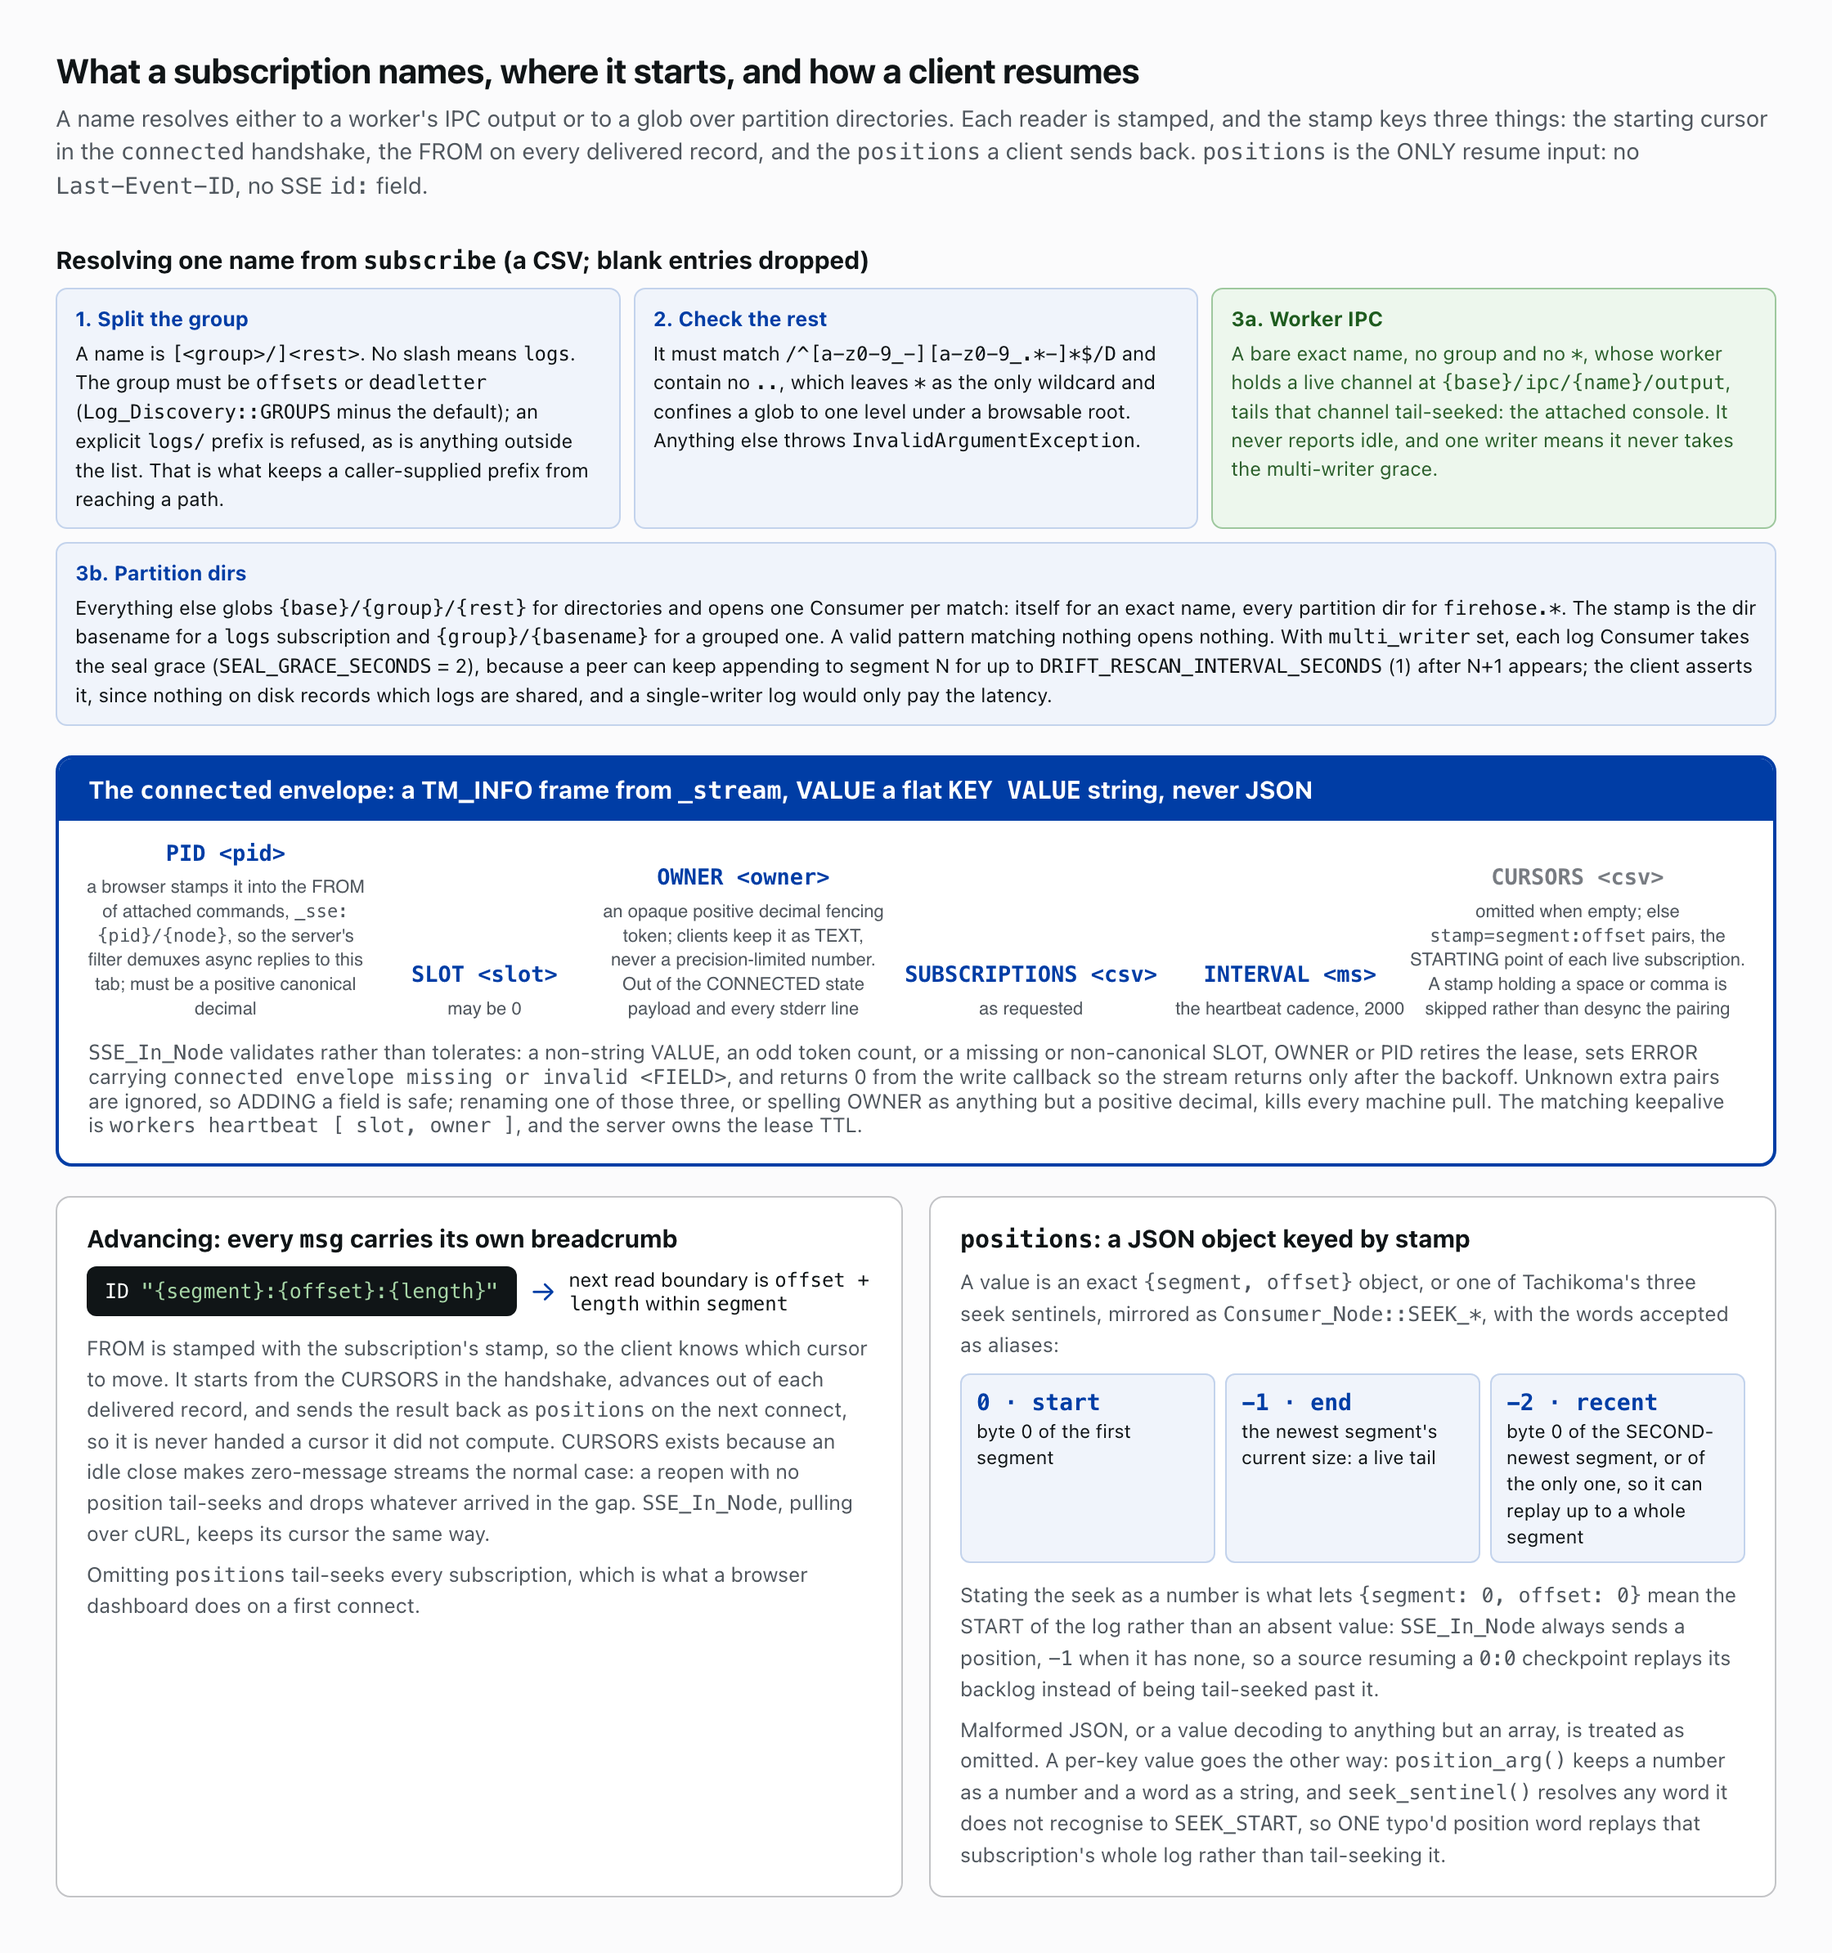
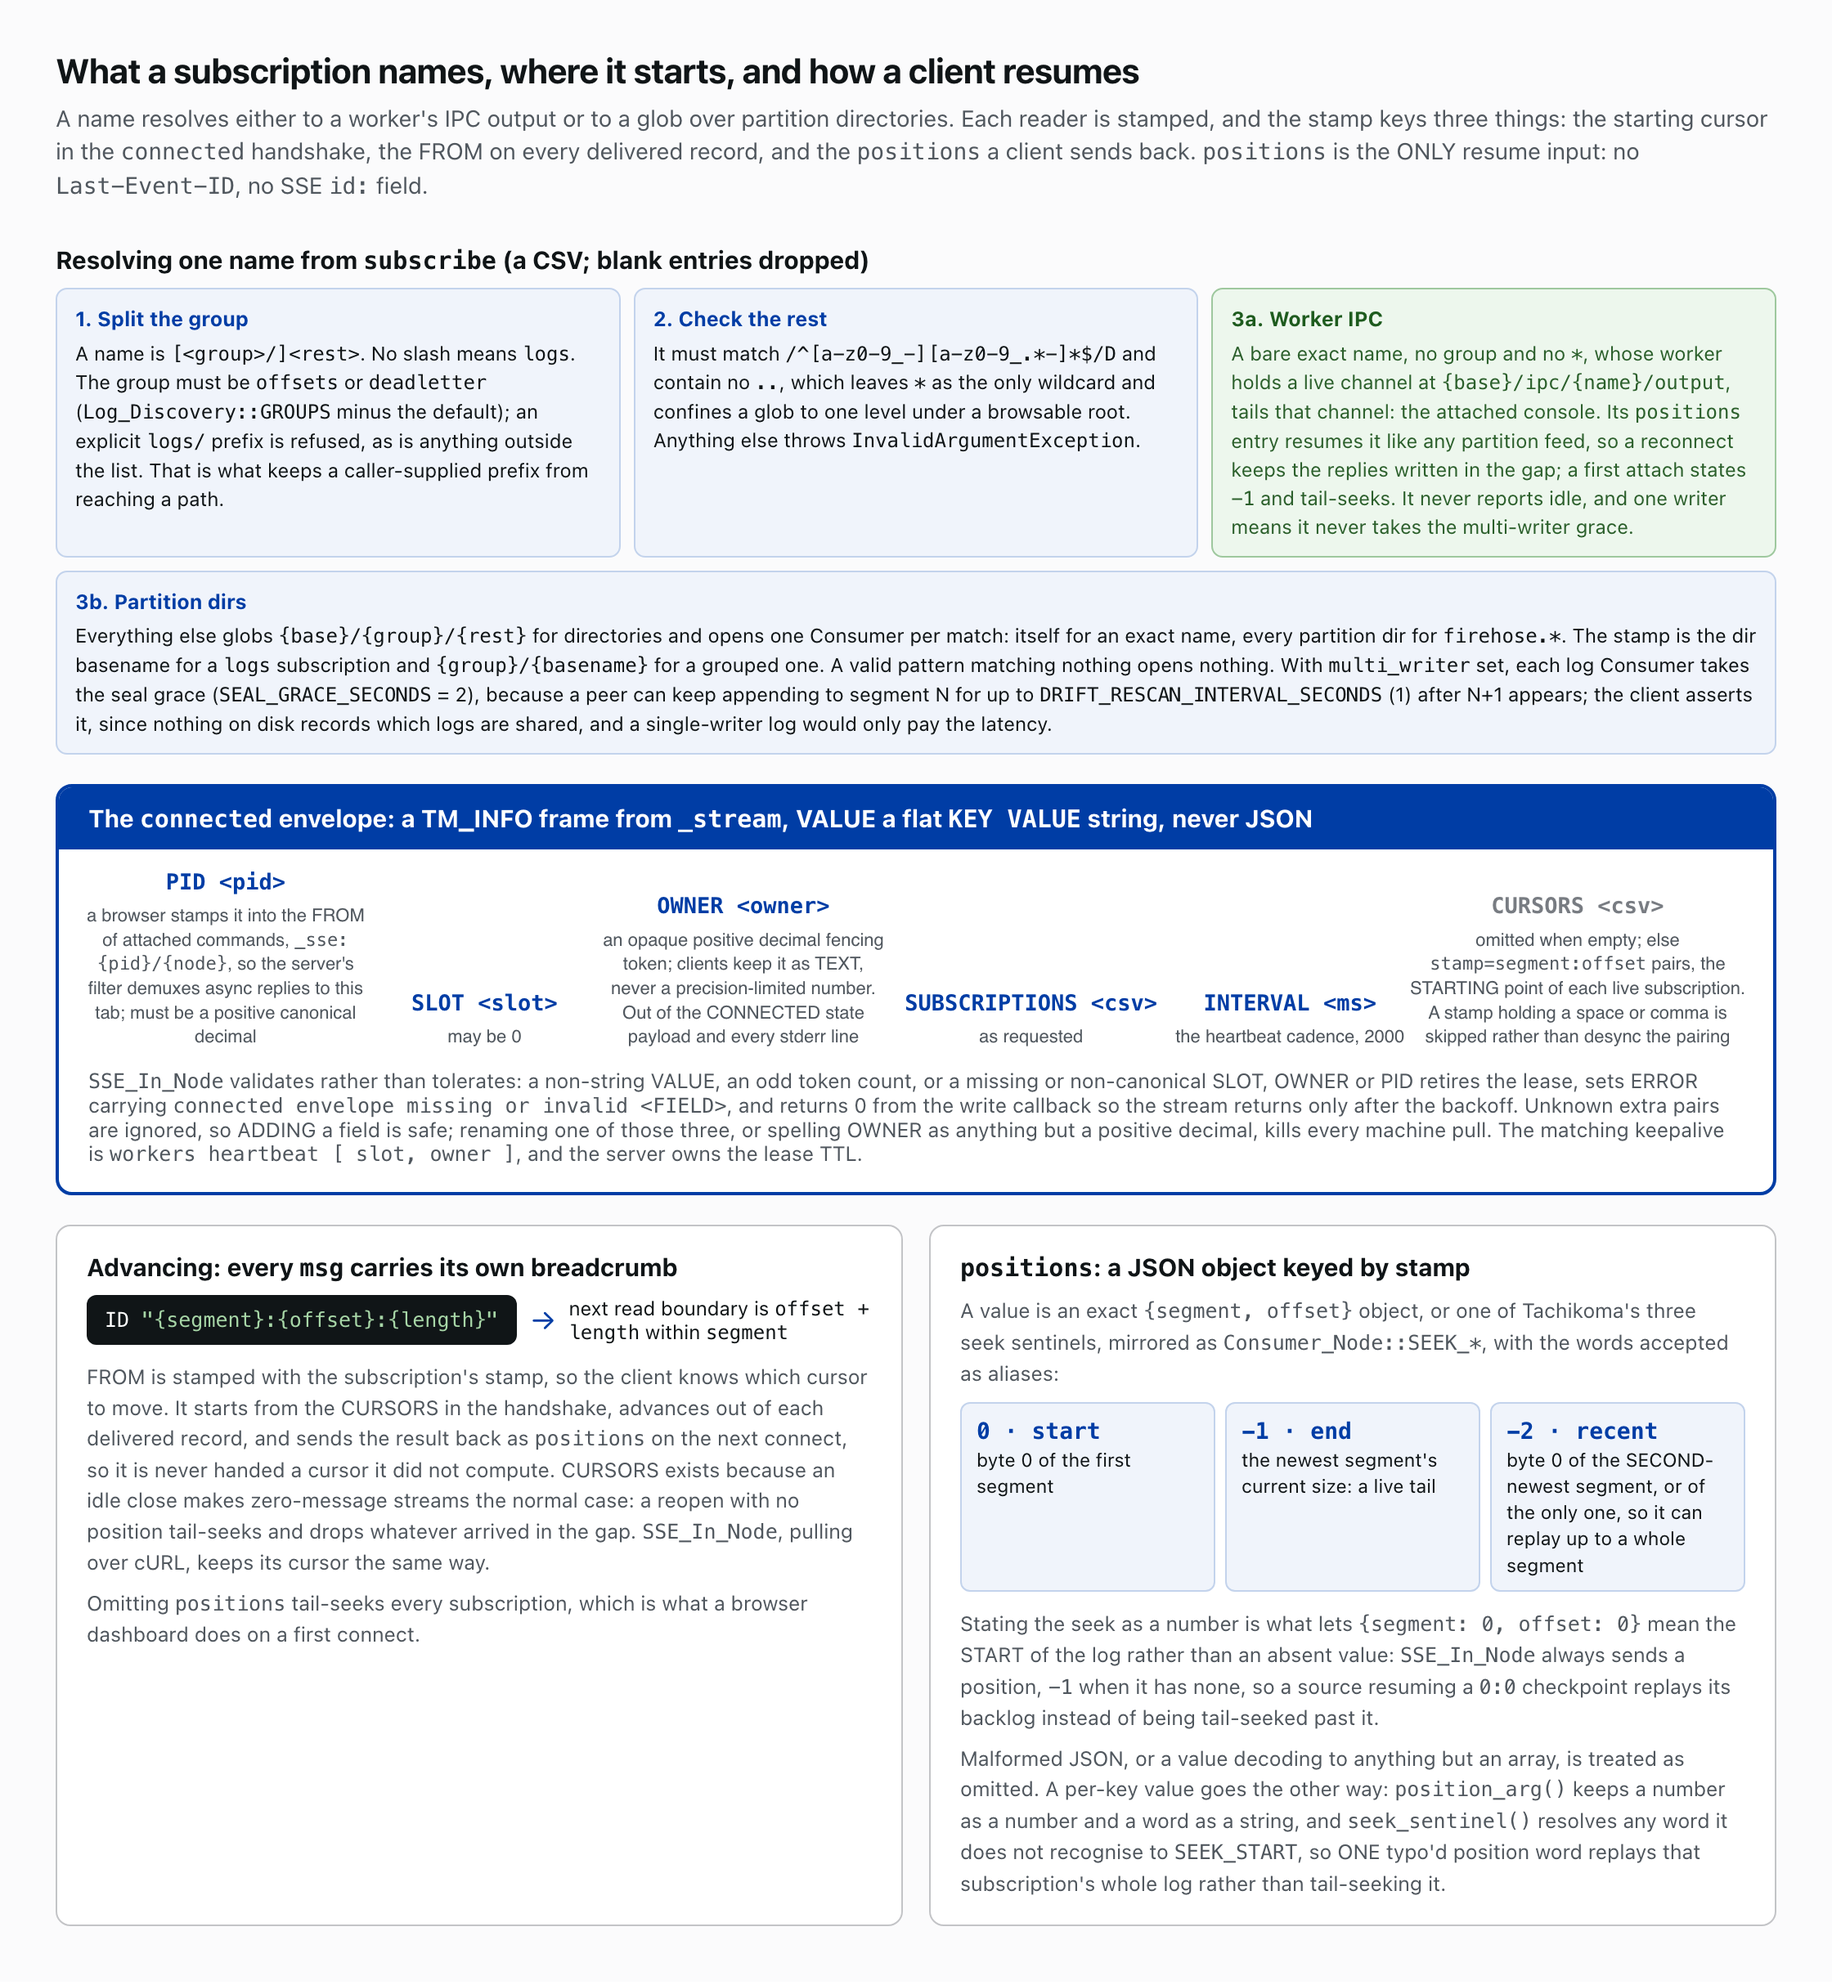
fix(sse): a worker attach resumes from the position its reconnect sends
open_subscription() tail-seeked every IPC attach, ignoring positions, so
the topology console lost whatever a worker wrote while its stream was
down, command replies included. The IPC branch now seeds its consumer from
positions[sub] through the same position_arg() the partition feed uses,
and a first attach, which sends no position, still tail-seeks.

diff --git a/docs/img/api-sse-subscribe-and-resume.html b/docs/img/api-sse-subscribe-and-resume.html
@@ -31,7 +31,7 @@ h2 { font-size:15px; margin:0 0 8px; }
 <div class="dec">
   <div class="q"><b>1. Split the group</b>A name is <span class="mono">[&lt;group&gt;/]&lt;rest&gt;</span>. No slash means <span class="mono">logs</span>. The group must be <span class="mono">offsets</span> or <span class="mono">deadletter</span> (<span class="mono">Log_Discovery::GROUPS</span> minus the default); an explicit <span class="mono">logs/</span> prefix is refused, as is anything outside the list. That is what keeps a caller-supplied prefix from reaching a path.</div>
   <div class="q"><b>2. Check the rest</b>It must match <span class="mono">/^[a-z0-9_-][a-z0-9_.*-]*$/D</span> and contain no <span class="mono">..</span>, which leaves <span class="mono">*</span> as the only wildcard and confines a glob to one level under a browsable root. Anything else throws <span class="mono">InvalidArgumentException</span>.</div>
-  <div class="q deny"><b>3a. Worker IPC</b>A bare exact name, no group and no <span class="mono">*</span>, whose worker holds a live channel at <span class="mono">{base}/ipc/{name}/output</span>, tails that channel tail-seeked: the attached console. It never reports idle, and one writer means it never takes the multi-writer grace.</div>
+  <div class="q deny"><b>3a. Worker IPC</b>A bare exact name, no group and no <span class="mono">*</span>, whose worker holds a live channel at <span class="mono">{base}/ipc/{name}/output</span>, tails that channel: the attached console. Its <span class="mono">positions</span> entry resumes it like any partition feed, so a reconnect keeps the replies written in the gap; a first attach states <span class="mono">-1</span> and tail-seeks. It never reports idle, and one writer means it never takes the multi-writer grace.</div>
   <div class="q" style="grid-column: 1 / span 3"><b>3b. Partition dirs</b>Everything else globs <span class="mono">{base}/{group}/{rest}</span> for directories and opens one Consumer per match: itself for an exact name, every partition dir for <span class="mono">firehose.*</span>. The stamp is the dir basename for a <span class="mono">logs</span> subscription and <span class="mono">{group}/{basename}</span> for a grouped one. A valid pattern matching nothing opens nothing. With <span class="mono">multi_writer</span> set, each log Consumer takes the seal grace (<span class="mono">SEAL_GRACE_SECONDS</span> = 2), because a peer can keep appending to segment N for up to <span class="mono">DRIFT_RESCAN_INTERVAL_SECONDS</span> (1) after N+1 appears; the client asserts it, since nothing on disk records which logs are shared, and a single-writer log would only pay the latency.</div>
 </div>
 

diff --git a/tests/unit/MessagesStreamSubscriptionResolverTest.php b/tests/unit/MessagesStreamSubscriptionResolverTest.php
@@ -423,6 +423,93 @@ class MessagesStreamSubscriptionResolverTest extends TestCase {
 		);
 	}
 
+	/**
+	 * Write `$values` as packed records into one IPC output segment.
+	 *
+	 * @param string        $dir     The output partition dir.
+	 * @param int           $segment Segment id.
+	 * @param array<string> $values  One record VALUE each.
+	 * @return array<int> Each record's byte length, in order.
+	 */
+	private function write_ipc_segment( string $dir, int $segment, array $values ): array {
+		$lengths = [];
+		$bytes   = '';
+		foreach ( $values as $value ) {
+			$message                   = Message::new_message();
+			$message[ Message::TYPE ]  = Message::TM_BYTESTREAM;
+			$message[ Message::VALUE ] = $value;
+			$line                      = Message::packed( $message ) . "\n";
+			$lengths[]                 = \strlen( $line );
+			$bytes                    .= $line;
+		}
+		\file_put_contents( "{$dir}/{$segment}.log", $bytes );
+		return $lengths;
+	}
+
+	/**
+	 * Drain a Consumer into a capture sink and return the VALUEs it delivered.
+	 *
+	 * @param Consumer_Node $consumer The reader to drain.
+	 * @return array<int,mixed> Delivered record VALUEs, TM_EOF excluded.
+	 */
+	private function drained_values( Consumer_Node $consumer ): array {
+		$sink = new \Newspack_Nodes\Tests\Capture_Sink_Node();
+		$consumer->sink( $sink );
+		$consumer->drain();
+		$values = [];
+		foreach ( $sink->captured as $message ) {
+			if ( Message::TM_EOF !== $message[ Message::TYPE ] ) {
+				$values[] = $message[ Message::VALUE ];
+			}
+		}
+		return $values;
+	}
+
+	public function test_ipc_attach_resumes_from_the_supplied_position(): void {
+		$out     = "{$this->tmp}/ipc/demo-workers.p3/output";
+		\mkdir( $out, 0755, true );
+		$lengths = $this->write_ipc_segment( $out, 7, [ 'seen-before-gap', 'reply-in-gap', 'later-output' ] );
+		$ctrl    = new SSE_Out_Node();
+		$ctrl->set_base_dir( $this->tmp );
+
+		$consumers = $ctrl->open_subscription(
+			'demo-workers.p3',
+			[ 'demo-workers.p3' => [ 'segment' => 7, 'offset' => $lengths[0] ] ]
+		);
+
+		$this->assertSame( "7:{$lengths[0]}", $consumers[0]->cursor_position(), 'seeded, not tail-seeked' );
+		$this->assertSame( [ 'reply-in-gap', 'later-output' ], $this->drained_values( $consumers[0] ) );
+	}
+
+	public function test_ipc_attach_with_no_position_tail_seeks(): void {
+		$out     = "{$this->tmp}/ipc/demo-workers.p3/output";
+		\mkdir( $out, 0755, true );
+		$lengths = $this->write_ipc_segment( $out, 7, [ 'old-output', 'more-old-output' ] );
+		$ctrl    = new SSE_Out_Node();
+		$ctrl->set_base_dir( $this->tmp );
+
+		$consumers = $ctrl->open_subscription( 'demo-workers.p3', [ 'another-worker.p1' => [ 'segment' => 7, 'offset' => 0 ] ] );
+
+		$this->assertSame( '7:' . \array_sum( $lengths ), $consumers[0]->cursor_position() );
+		$this->assertSame( [], $this->drained_values( $consumers[0] ) );
+	}
+
+	public function test_ipc_attach_resuming_into_a_deleted_segment_replays_from_the_oldest(): void {
+		// Retention took segment 4; a partition feed rewinds to the oldest.
+		$out = "{$this->tmp}/ipc/demo-workers.p3/output";
+		\mkdir( $out, 0755, true );
+		$this->write_ipc_segment( $out, 7, [ 'oldest-surviving', 'newest' ] );
+		$ctrl = new SSE_Out_Node();
+		$ctrl->set_base_dir( $this->tmp );
+
+		$consumers = $ctrl->open_subscription(
+			'demo-workers.p3',
+			[ 'demo-workers.p3' => [ 'segment' => 4, 'offset' => 91 ] ]
+		);
+
+		$this->assertSame( [ 'oldest-surviving', 'newest' ], $this->drained_values( $consumers[0] ) );
+	}
+
 	public function test_invalid_subscription_throws(): void {
 		$ctrl = new SSE_Out_Node();
 		$ctrl->set_base_dir( $this->tmp );

diff --git a/includes/rest/class-sse-out-node.php b/includes/rest/class-sse-out-node.php
@@ -633,7 +633,9 @@ class SSE_Out_Node extends Node {
 	 * that channel. Everything else globs `{base}/{group}/{rest}` and yields
 	 * one Consumer per matched dir — itself for an exact name, every partition
 	 * dir for `firehose.*` — each stamped and resume-keyed by the stamp
-	 * `stamp_for()` builds from its dir basename.
+	 * `stamp_for()` builds from its dir basename. The IPC reader resumes the
+	 * same way, keyed by `$sub`, so a reconnecting console keeps the replies
+	 * written while it was away.
 	 *
 	 * The remainder after the group prefix must lead with a name character and
 	 * contain neither `/` nor `..`, which leaves `*` as the only wildcard and
@@ -668,7 +670,7 @@ class SSE_Out_Node extends Node {
 				$this->is_interactive = true;
 				$consumer             = new Consumer_Node();
 				$consumer->arguments( [ $ipc_output ] );
-				$consumer->next_offset( 'end' );
+				$consumer->next_offset( self::position_arg( $positions, $sub ) );
 				$consumer->set_stamp_as( $sub );
 				return [ $consumer ];
 			}
@@ -798,9 +800,7 @@ class SSE_Out_Node extends Node {
 		$consumer = new Consumer_Node();
 		$consumer->arguments( [ $dir ] );
 		$consumer->set_multi_writer( $this->multi_writer );
-		$consumer->next_offset(
-			isset( $positions[ $name ] ) ? self::position_arg( $positions[ $name ] ) : 'end'
-		);
+		$consumer->next_offset( self::position_arg( $positions, $name ) );
 		$consumer->set_stamp_as( $name );
 		return $consumer;
 	}
@@ -815,8 +815,8 @@ class SSE_Out_Node extends Node {
 	 * child for the whole window per reconnect, which is the residency this is
 	 * meant to give back.
 	 *
-	 * A worker IPC attach never reports idle. That consumer tail-seeks, so it is
-	 * caught up the instant it opens, and a console attaching to a quiet worker
+	 * A worker IPC attach never reports idle. A first attach tail-seeks, so it
+	 * is caught up the instant it opens, and a console attaching to a quiet worker
 	 * would be hung up on before rendering a line — then wait out the whole
 	 * advertised `retry` gap for a stream it just asked for. The window
 	 * reclaims tails nobody is reading; an attached console is someone reading.
@@ -862,15 +862,21 @@ class SSE_Out_Node extends Node {
 	}
 
 	/**
-	 * Narrow a saved-position value to a shape `Consumer_Node::next_offset()` accepts:
-	 * an exact `{segment, offset}` pair, a numeric SEEK sentinel (`SEEK_START` 0 /
-	 * `SEEK_END` -1 / `SEEK_RECENT` -2), or one of the alias words. Anything else
-	 * falls back to 'start' (next_offset's default case).
+	 * Narrow one stamp's saved position to a shape `Consumer_Node::next_offset()`
+	 * accepts: an exact `{segment, offset}` pair, a numeric SEEK sentinel
+	 * (`SEEK_START` 0 / `SEEK_END` -1 / `SEEK_RECENT` -2), or one of the alias
+	 * words. A stamp with no entry tail-seeks; any other value falls back to
+	 * 'start' (next_offset's default case).
 	 *
-	 * @param mixed $position Raw per-subscription saved position.
+	 * @param array<array-key,mixed>|null $positions Saved positions, keyed by stamp.
+	 * @param string                      $stamp     The stamp the reader carries.
 	 * @return array<array-key,mixed>|string|int A value `next_offset()` accepts.
 	 */
-	protected static function position_arg( $position ) {
+	protected static function position_arg( ?array $positions, string $stamp ) {
+		if ( ! isset( $positions[ $stamp ] ) ) {
+			return 'end';
+		}
+		$position = $positions[ $stamp ];
 		if ( \is_array( $position ) ) {
 			return $position;
 		}

diff --git a/includes/rest/class-log-stream-out-node.php b/includes/rest/class-log-stream-out-node.php
@@ -61,9 +61,7 @@ class Log_Stream_Out_Node extends SSE_Out_Node {
 			throw new \InvalidArgumentException( \esc_html( \rtrim( Log_Sources::unknown_source( $registry, $sub ), "\n" ) ) );
 		}
 		$tail = Log_Sources::open_tail( $registry[ $sub ] );
-		$tail->next_offset(
-			isset( $positions[ $sub ] ) ? self::position_arg( $positions[ $sub ] ) : 'end'
-		);
+		$tail->next_offset( self::position_arg( $positions, $sub ) );
 		$tail->set_stamp_as( $sub );
 		return [ $tail ];
 	}

diff --git a/CHANGELOG.md b/CHANGELOG.md
@@ -29,6 +29,17 @@ and this project adheres to [Semantic Versioning](https://semver.org/spec/v2.0.0
   new `Cache_Backend::last_failure()`. The rate limit still keys on each
   line's fixed prefix, so a changing message cannot defeat it.
 
+### Fixed
+
+- **A worker console attach resumes where it stopped.** `SSE_Out_Node`
+  opened every IPC attach (`{base}/ipc/{sub}/output`) at the tail and
+  ignored the `positions` entry the browser sends on each reopen, so a
+  reconnecting topology console lost the output written during the gap,
+  command replies included. The attach now seeds its Consumer from that
+  entry through the same `position_arg()` a partition feed uses, and a
+  position in a segment retention deleted replays from the oldest segment.
+  A first attach states `-1` and still tail-seeks.
+
 ## [2.65.12] - 2026-09-23
 
 ### Added
